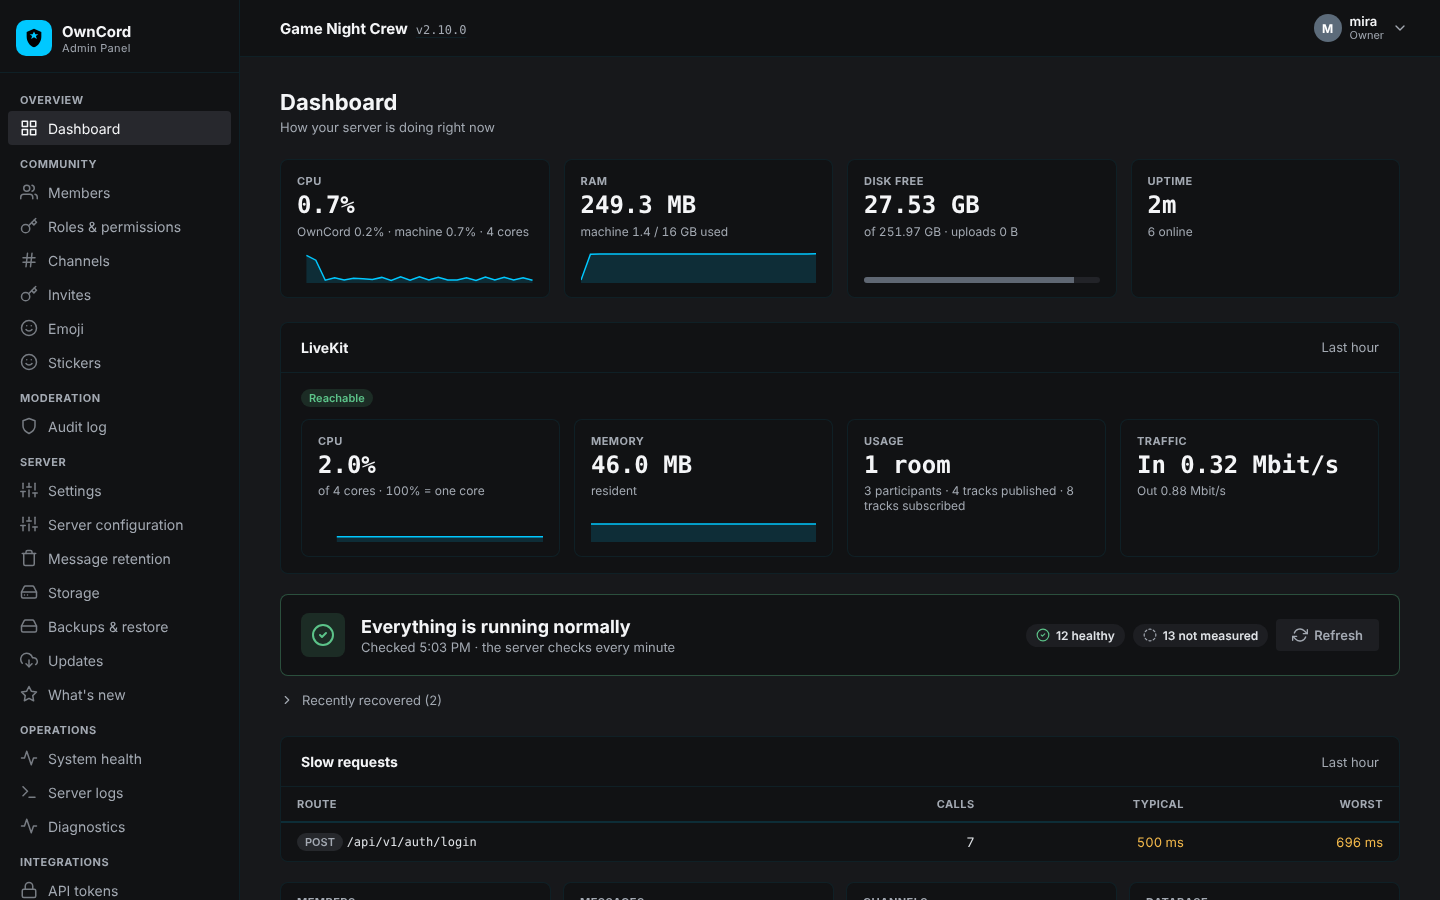
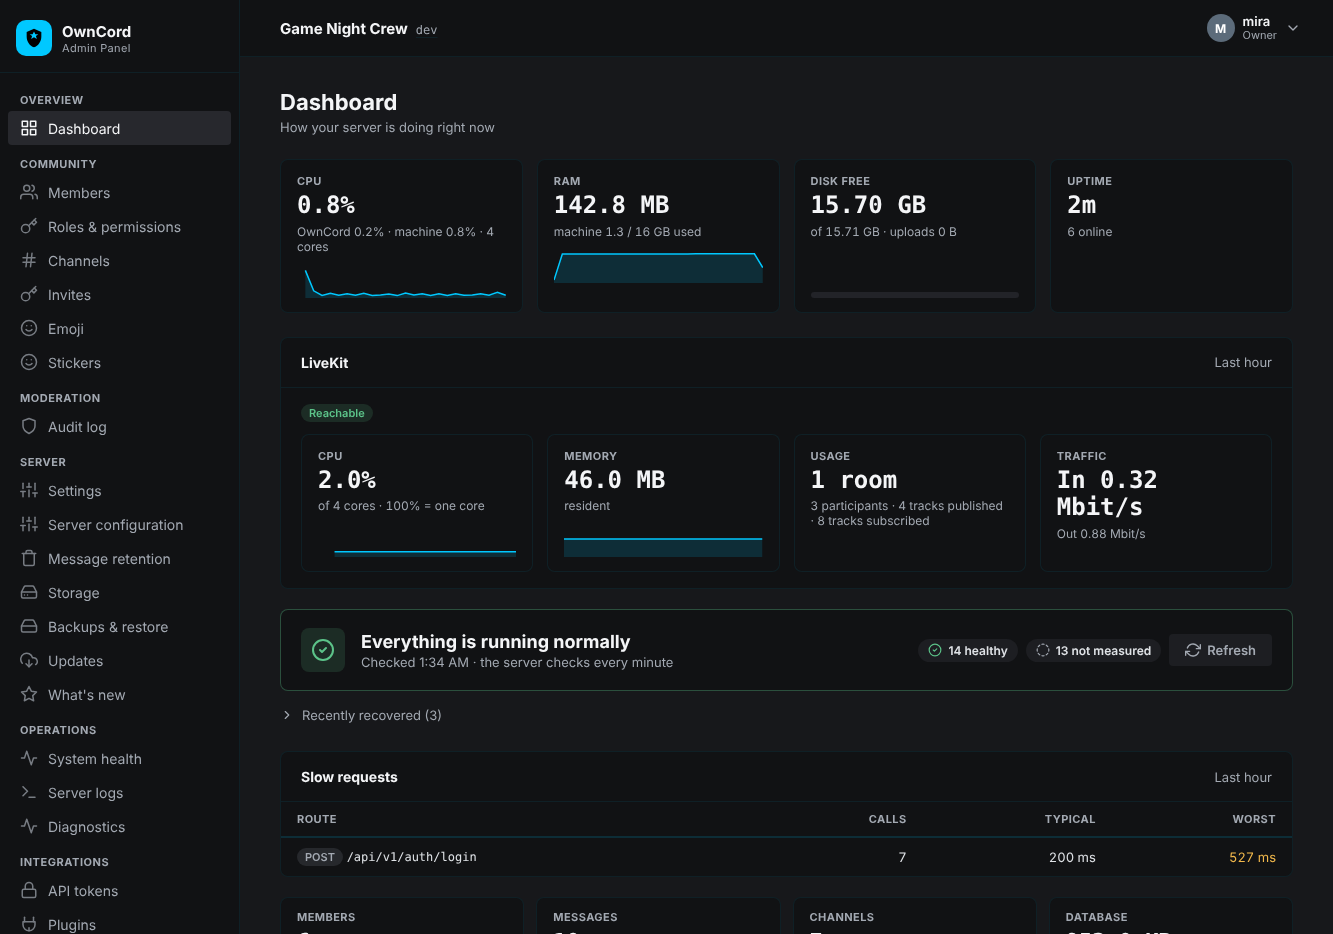
docs: retake the README screenshots in Command Deck and Gunmetal
The README images show what a new desktop install shows: the client in
Command Deck, the login page in Gunmetal, all three at 1333x934.
`npm run screenshots:readme` seeds layout "deck" and the raw "gunmetal"
theme explicitly (client and login), so a run does not depend on the
new-install settle, and clicks the "general" row of the Deck tree. The
spec also confirms the backup disk for its demo server (the Backup disk
check, added since the last retake, otherwise keeps the admin dashboard
from reading "Everything is running normally"). docs/maintainers.md
states the new size and look.

Also in this commit (coordinator addition): Client/artifact-size-budget.json
raises the linux-arm64 .deb budget from 28,800,000 to 29,600,000 B. The
dispatched Desktop Artifact Smoke of 2026-11-26 measured it at 28,877,138 B,
77,138 B over. The file's rule caps a raise at 3 % (29,664,000) and
the file names no 100 KB step downward, so 29,600,000 keeps the cap and
leaves 722,862 B (2.5 %) of headroom; the ratchet note records the raise.

Pre-flight
- Affected files: Client/tests/e2e/config/playwright.config.screenshots.ts,
  Client/tests/e2e/screenshots/readme.spec.ts, docs/maintainers.md,
  .github/images/{Client,loginpage,Admin_Panel}.png,
  Client/artifact-size-budget.json.
- State mutations: only the three image files and the budget file; the
  spec writes the layout and theme keys into throwaway browser contexts
  and one backup_disk_ack setting on a temporary demo server. Readers of
[…]

diff --git a/Client/tests/e2e/screenshots/readme.spec.ts b/Client/tests/e2e/screenshots/readme.spec.ts
@@ -1,8 +1,10 @@
 import { createServer, type Server } from "node:http";
-import { test, expect, type Page } from "@playwright/test";
+import { join } from "node:path";
+import { test, expect, type BrowserContext, type Page } from "@playwright/test";
 import { fromClientRoot } from "../config/clientRoot";
 import { rawSocket } from "../support/raw-socket";
 import { installRealTransport } from "../support/real-transport";
+import { seedScreenLayout } from "../support/screenLayoutSeed";
 import { startTestServer, TEST_PASSWORD, type TestServer } from "../support/server";
 
 const IMAGES = fromClientRoot("../.github/images");
@@ -104,6 +106,14 @@ async function seed(server: TestServer): Promise<{ token: string; sockets: Socke
   as("noor").send("presence_update", { status: "dnd", custom_status: "Working until 17:00" });
   as("lena").send("presence_update", { status: "idle" });
   await server.api("/admin/api/backup", {}, owner.token);
+  // The demo server keeps its backups in its own data folder, which the Backup
+  // disk check flags; the owner of a real server would confirm another disk.
+  await server.api(
+    "/admin/api/settings",
+    { backup_disk_ack: join(server.directory, "data", "backups") },
+    owner.token,
+    "PATCH",
+  );
   return { token: owner.token, sockets: [...sockets.values()] };
 }
 
@@ -144,12 +154,30 @@ async function fakeLiveKitMetrics(): Promise<Server> {
   return fake;
 }
 
+const VIEWPORT = { width: 1333, height: 934 } as const;
+
+/** Stores the layout and theme a new desktop install gets, explicitly, so the
+ *  pictures do not depend on the new-install settle. The theme is stored raw. */
+async function seedLook(context: BrowserContext): Promise<void> {
+  await seedScreenLayout(context, "deck");
+  await context.addInitScript(() => {
+    try {
+      localStorage.setItem("owncord:theme:active", "gunmetal");
+    } catch {
+      // Storage is unavailable on this document: the picture keeps its default look.
+    }
+  });
+}
+
 const HIDE_TOASTS = '[data-testid="toast"] { display: none !important; }';
 
+// The Command Deck Info block (call state and latency) needs a joined call and a
+// real LiveKit, so it is not in the client picture.
 async function signInClient(page: Page, server: TestServer): Promise<void> {
+  await seedLook(page.context());
   await page.goto("/");
-  // A saved profile with a name gives the server rail real initials instead
-  // of the first two characters of 127.0.0.1.
+  // A saved profile with a name gives the server tab a real name instead of
+  // 127.0.0.1.
   await page.getByText("+ Add Server").click();
   await page.getByPlaceholder("My Server").fill(SERVER_NAME);
   await page.getByPlaceholder("example.com:8443", { exact: true }).fill(`127.0.0.1:${server.port}`);
@@ -161,7 +189,7 @@ async function signInClient(page: Page, server: TestServer): Promise<void> {
   await page.locator("#auto-connect").uncheck();
   await page.locator("button[type='submit']").click();
   await expect(page.getByTestId("app-layout")).toBeVisible();
-  await page.locator(".channel-item:not(.voice)").filter({ hasText: "general" }).click();
+  await page.locator(".server-tree [role=treeitem]").filter({ hasText: "general" }).first().click();
   await expect(page.getByText("Drop your game ideas there")).toBeVisible();
 }
 
@@ -201,9 +229,10 @@ test("README screenshots", async ({ page, browser, baseURL }) => {
     const loginContext = await browser.newContext({
       baseURL,
       colorScheme: "dark",
-      viewport: { width: 1440, height: 900 },
+      viewport: VIEWPORT,
     });
     try {
+      await seedLook(loginContext);
       const loginPage = await loginContext.newPage();
       await loginPage.goto("/");
       await loginPage.locator("#host").fill("chat.example.net");
@@ -216,7 +245,7 @@ test("README screenshots", async ({ page, browser, baseURL }) => {
 
     const adminContext = await browser.newContext({
       colorScheme: "dark",
-      viewport: { width: 1440, height: 900 },
+      viewport: VIEWPORT,
     });
     try {
       const adminPage = await adminContext.newPage();

diff --git a/Client/tests/e2e/config/playwright.config.screenshots.ts b/Client/tests/e2e/config/playwright.config.screenshots.ts
@@ -17,7 +17,7 @@ export default defineConfig({
     baseURL: "http://localhost:4173",
     userAgent: devices["Desktop Chrome"].userAgent,
     colorScheme: "dark",
-    viewport: { width: 1440, height: 900 },
+    viewport: { width: 1333, height: 934 },
     deviceScaleFactor: 1,
     contextOptions: { reducedMotion: "reduce" },
     ...(process.env.OWNCORD_SCREENSHOTS_CHROMIUM

diff --git a/docs/maintainers.md b/docs/maintainers.md
@@ -225,7 +225,8 @@ images on the frozen `dev` head with `npm run screenshots:readme` (from
 `Client/`) and land them in a PR to `dev` before the release PR. The run starts
 a real server in a temporary folder, seeds a demo community through the normal
 HTTP and WebSocket routes, and writes `Client.png`, `loginpage.png` and
-`Admin_Panel.png` at 1440x900 in the default dark theme.
+`Admin_Panel.png` at 1333x934: the client in Command Deck and the login page in
+the Gunmetal theme, which is what a new desktop install shows.
 
 ### Update signing keys
 
